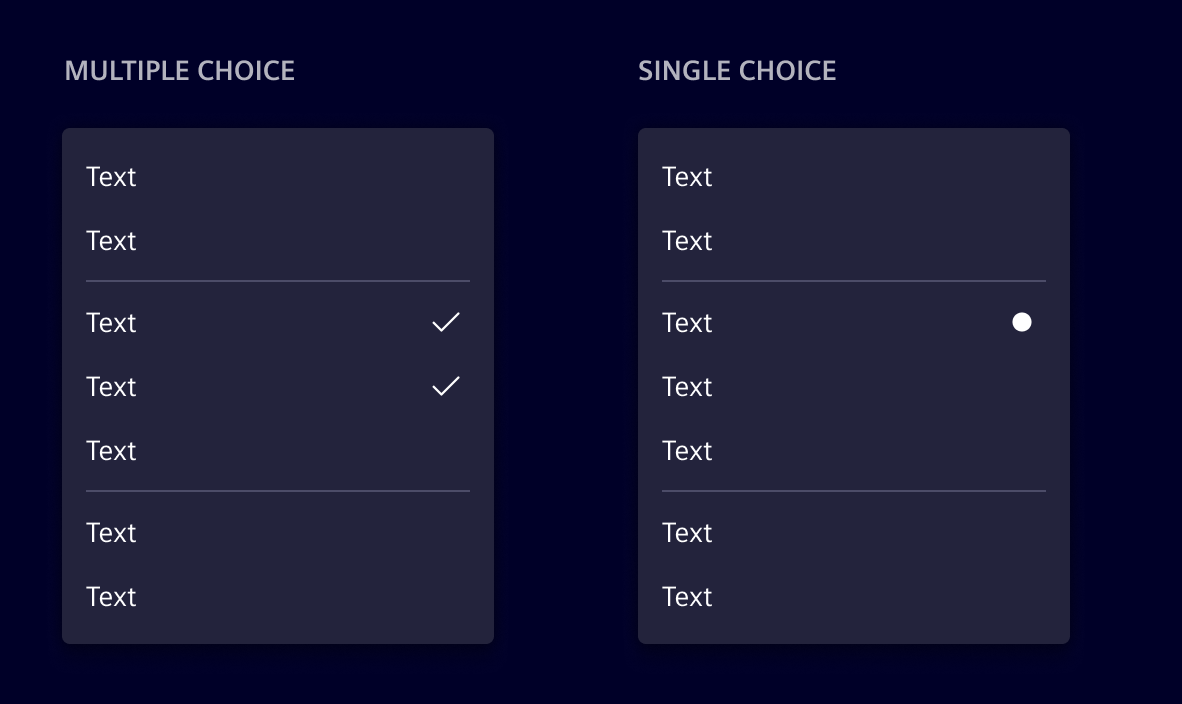
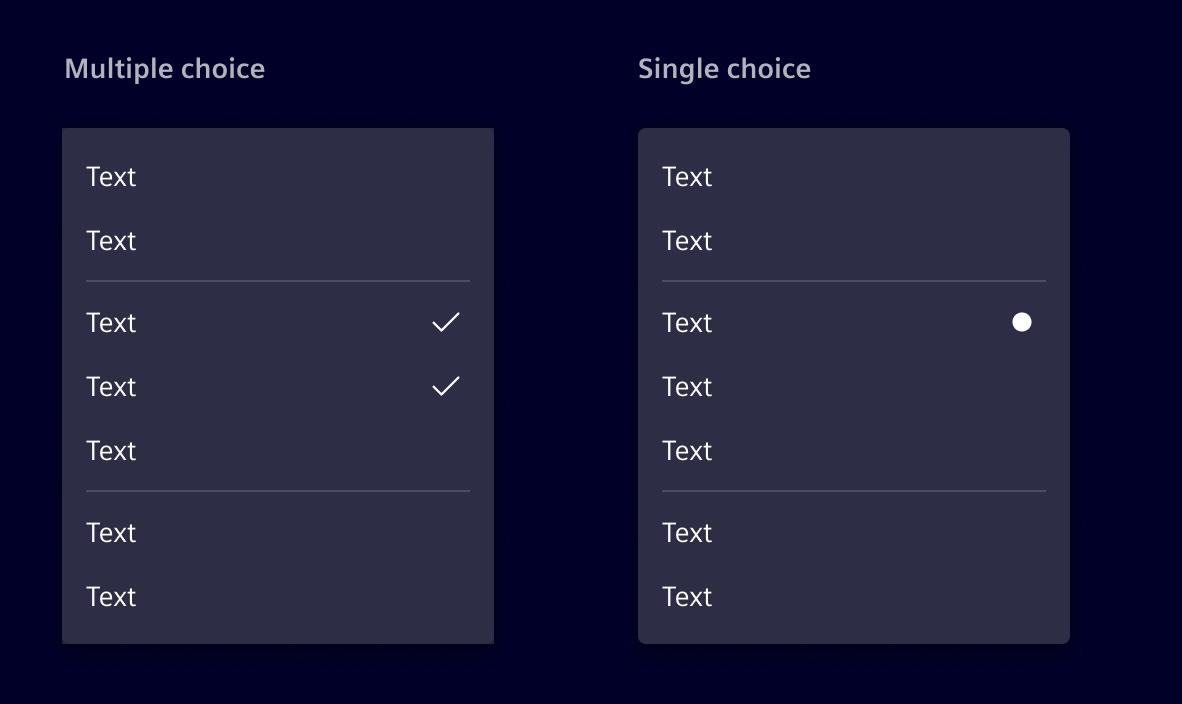
docs(menu): update ux docs

Changed region(s): [[0.0609, 0.0625, 0.2437, 0.125], [0.5482, 0.0625, 0.7005, 0.125]]

diff --git a/docs/components/buttons-menus/menu.md b/docs/components/buttons-menus/menu.md
@@ -1,26 +1,28 @@
 # Menu
 
-Contextual menus are lists of commands that are based on the context of a selection, mouse hover or keyboard focus.
-They are one of the most effective and highly used command surfaces, and can be used in a variety of places.
+**Menus** display a list of actions related to a specific element or context.
 
 ## Usage ---
+
+Menus open from a trigger, such as a buttons or right-click,
+and show actions related to the current context.
 
 ![Menu](images/menu.png)
 
 ### When to use
 
-- If users need to perform several actions on a content
-- If the actions are not used on a daily basis
+- When users need to perform several actions on the same content.
+- For actions that are not used frequently and don't need to be permanently visible.
+- To keep the interface clean by grouping secondary actions in one place.
 - If there is one action only, use [button](buttons.md) or [link](links.md) instead
 
 ### Best practices
 
-- Analyze what actions are most important. Order the actions accordingly.
-- Group similar actions.
+- Order actions by importance, with the most relevant ones at the top.
+- Group related actions and separate the groups with dividers.
 - Move less important actions to a submenu.
-- Keep disabled actions visible.
-- Do not use more than 2 submenus in a nested way.
-- Do not have a long and flat list of actions, which might not have space on a small screen.
+- Keep disabled actions visible so users know the action exists but is currently unavailable.
+- Avoid more than two levels of nested submenus.
 
 ## Design ---
 
@@ -28,14 +30,16 @@ They are one of the most effective and highly used command surfaces, and can be 
 
 ![Elements](images/menu-elements.png)
 
-> (1) Hover state, (2) Entry with submenu, (3) Header, (4) Entry menu with icon, (5) Disabled state, (6) Indication for submenu, (7) Divider
+> 1\. Item with submenu, 2. Section title, 3. Item with icon, 4. Divider
 
-### Alternatives
+### Selection
 
-![Alternatives](images/menu-alternatives.png)
+Menus can include selectable items with single choice or multiple choice.
 
-- Single choice should be used if the user has to select one of the options only. Make sure, that the options are grouped correctly.
-- Multi choice can be used, if the user can enable or disable some functionality over the menu.
+- Use single choice when only one option can be active at a time.
+- Use multiple choice when users can enable or disable several options independently.
+
+![Multiple and single choice](images/menu-alternatives.png)
 
 ## Code ---
 
